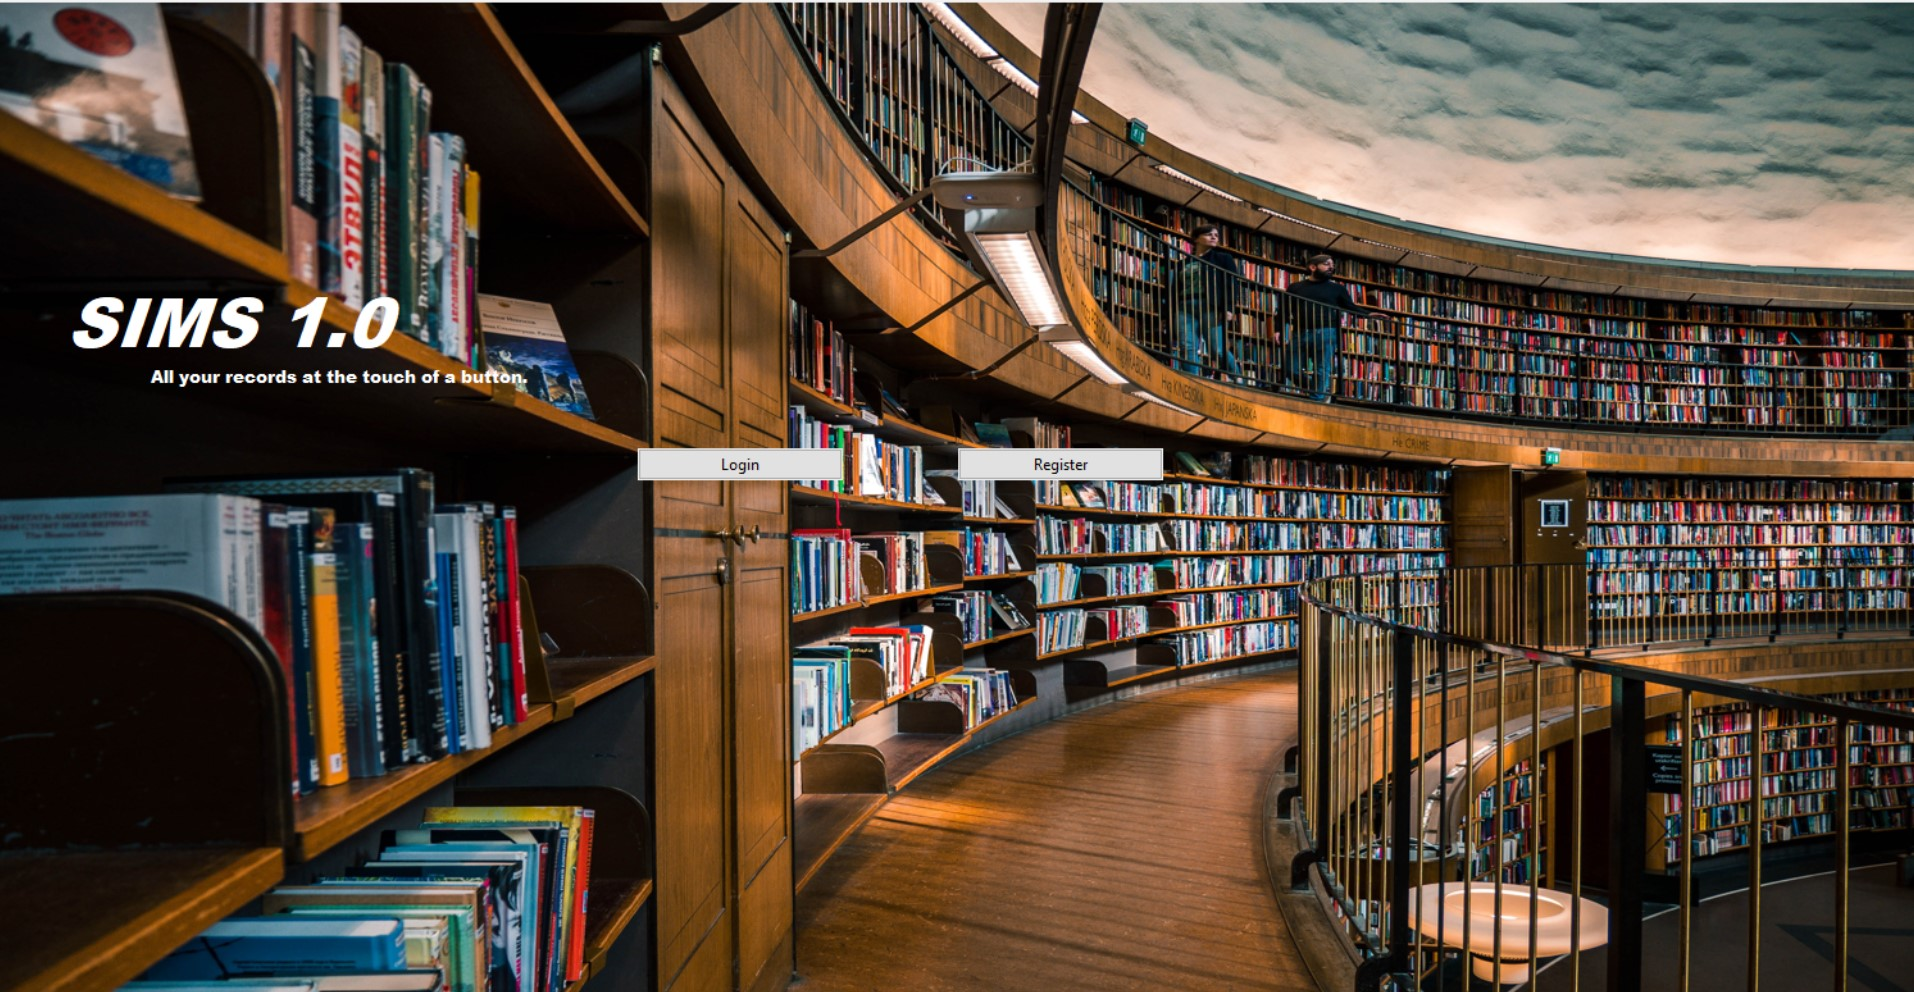
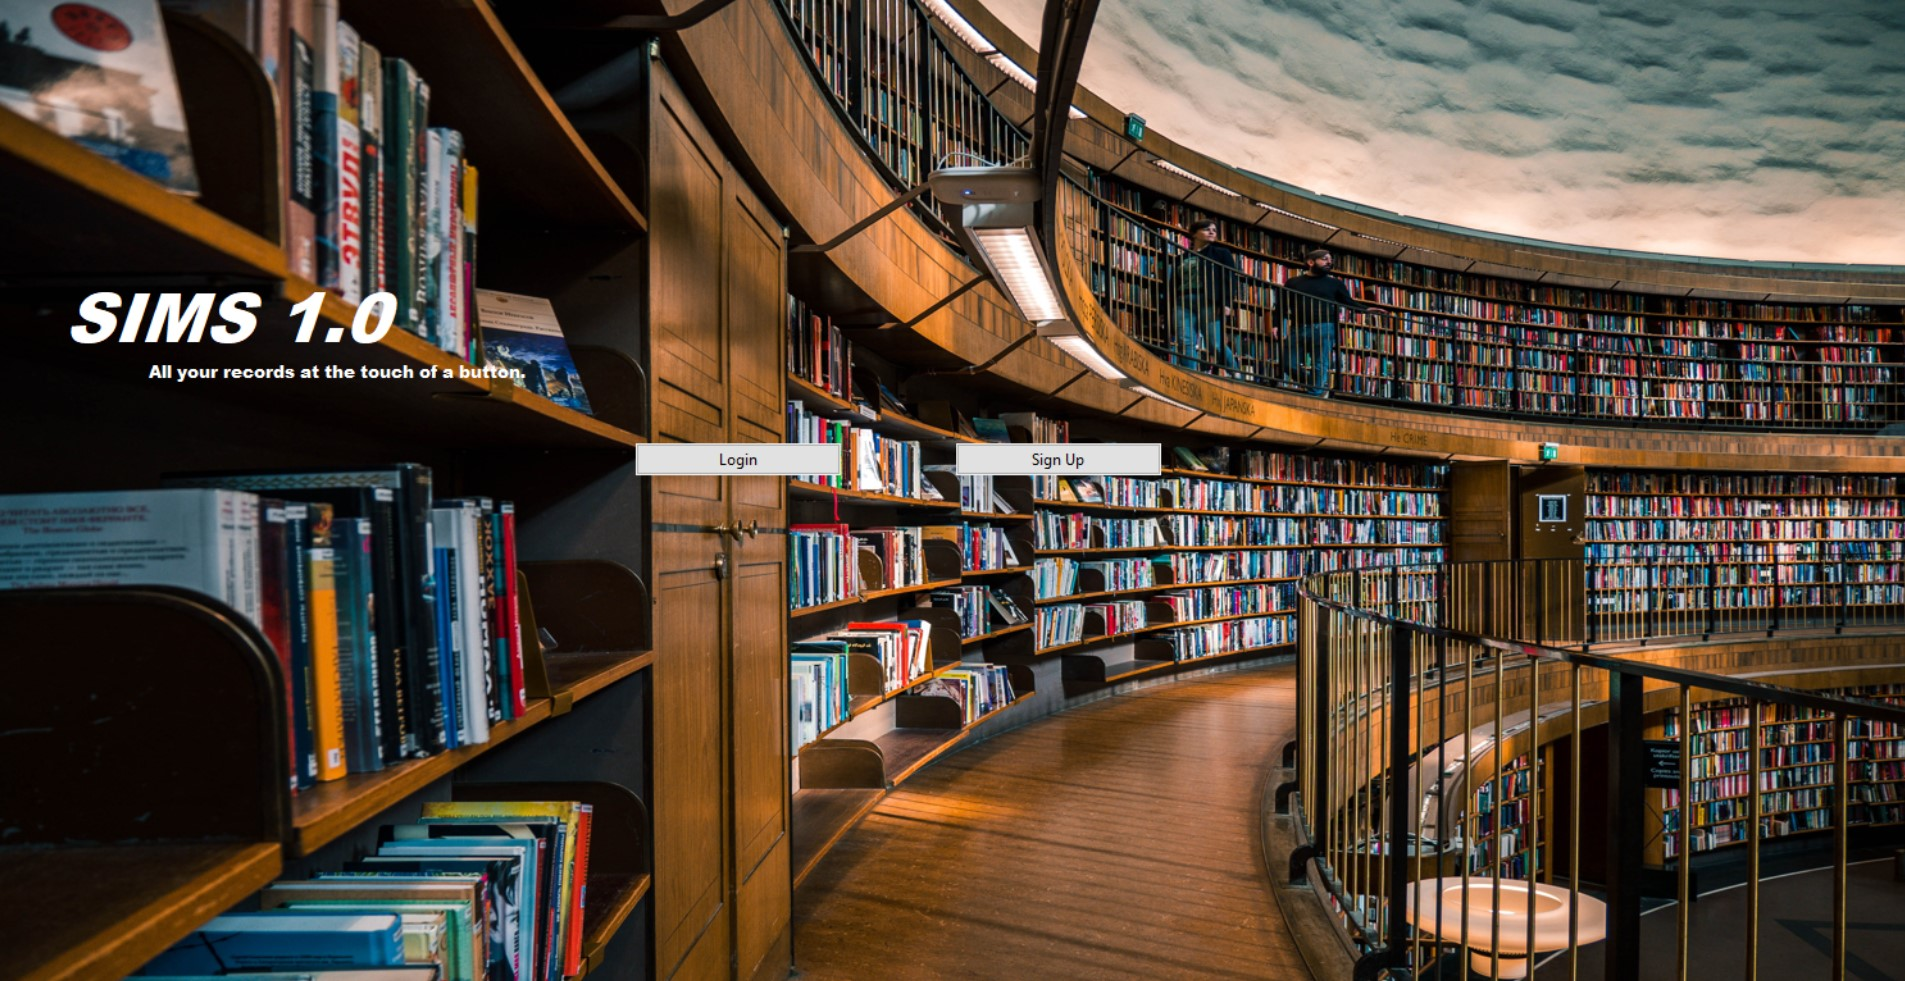
modified image

diff --git a/sims single.py b/sims single.py
@@ -78,10 +78,10 @@ class StartPage(tk.Frame):
 
         # Add buttons
         login_button = ttk.Button(self, text = 'Login', width = 25, command=lambda: controller.show_frame(Login))
-        register_button = ttk.Button(self, text = 'Register', width = 25, command=lambda: controller.show_frame(SignUp))
+        signup_button = ttk.Button(self, text = 'Sign Up', width = 25, command=lambda: controller.show_frame(SignUp))
         # Button windows
         login_button_window = self.my_canvas.create_window(500, 350, anchor= 'nw', window=login_button)
-        register_button_window = self.my_canvas.create_window(750, 350, anchor= 'nw', window=register_button)
+        signup_button_window = self.my_canvas.create_window(750, 350, anchor= 'nw', window=signup_button)
 
         '''
         # Glitches the transition from login screen to dashboard (tiny but noticeable) 
